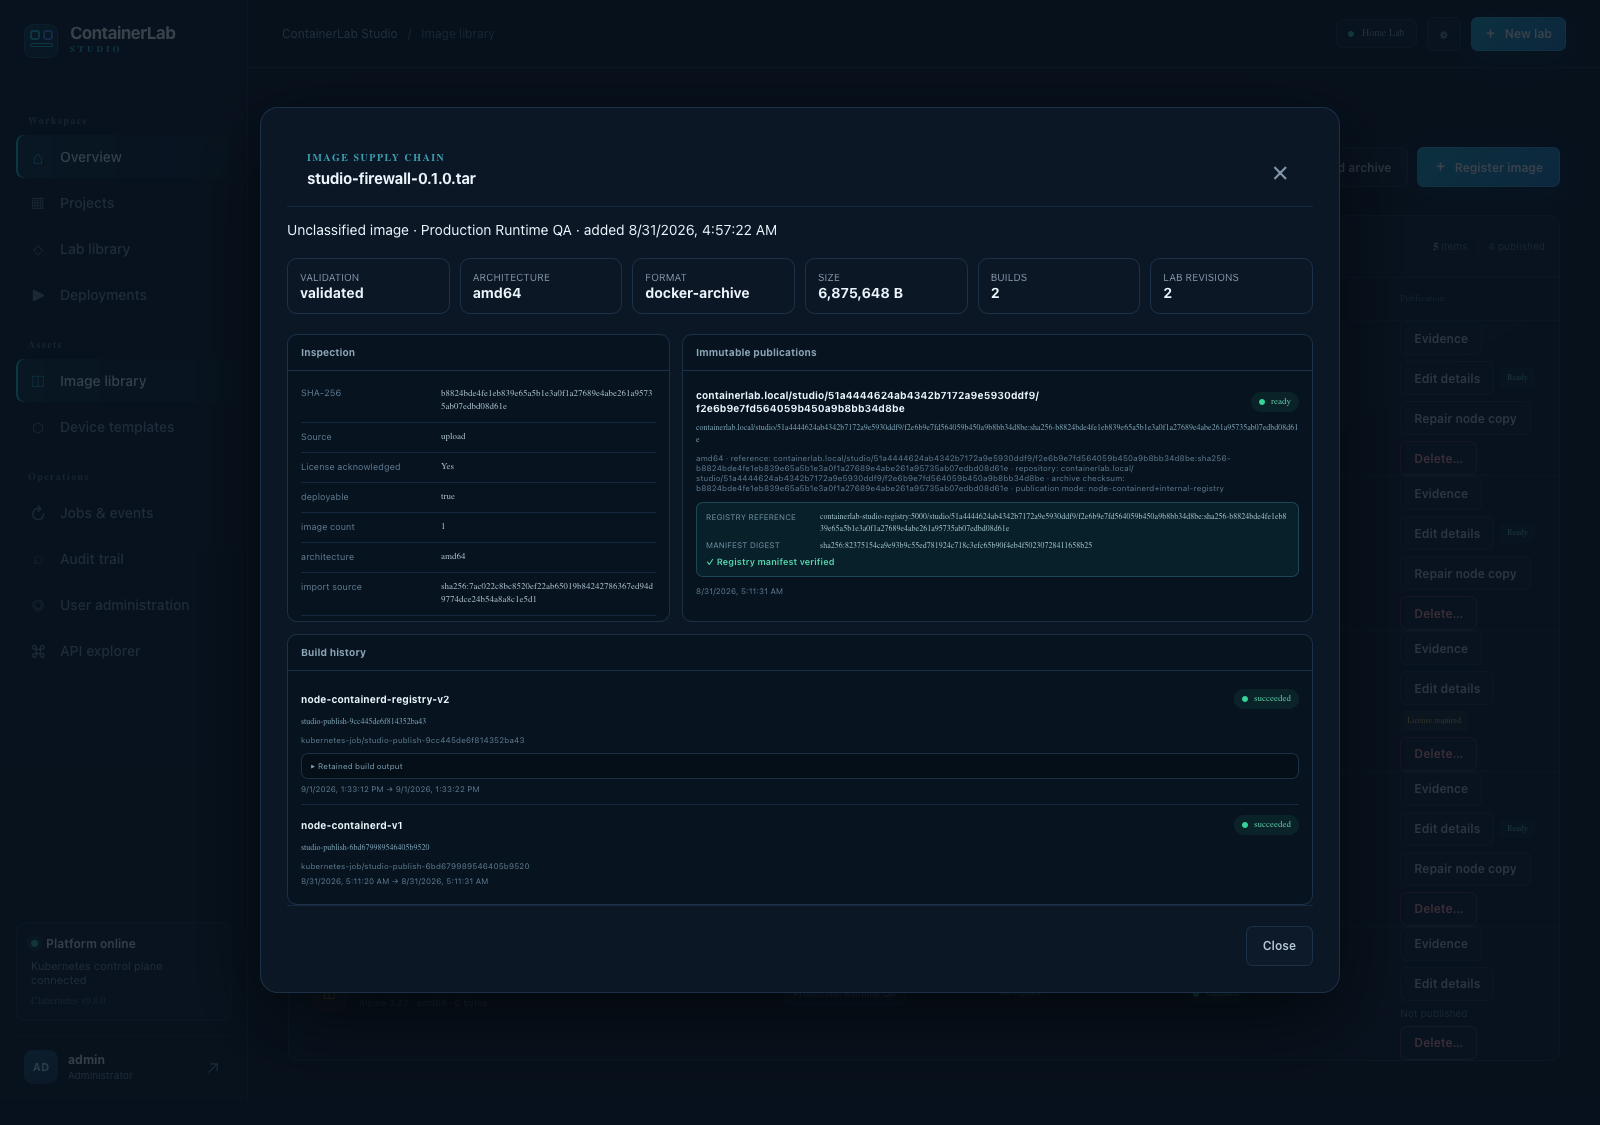
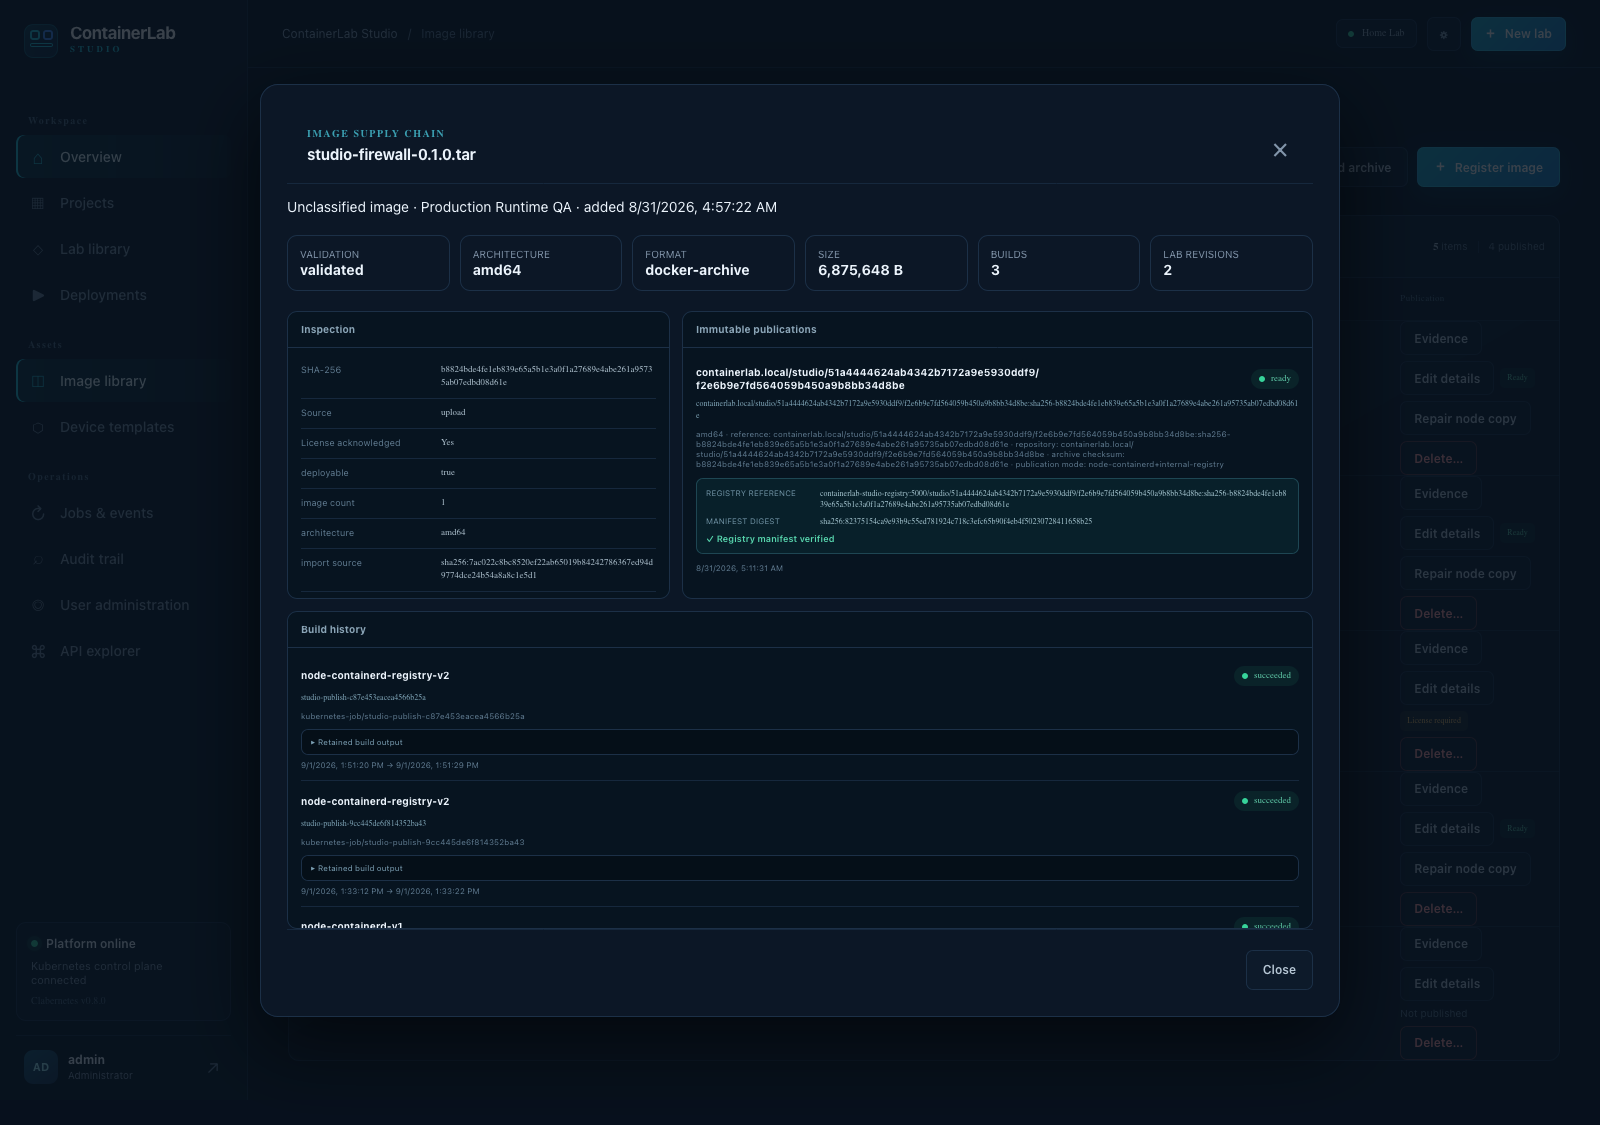
Document verified platform network isolation

diff --git a/IMPLEMENTATION_STATUS.md b/IMPLEMENTATION_STATUS.md
@@ -48,6 +48,7 @@
 - A 62-screen Firefox training capture catalog covering project and lab lifecycle, visual topology design and arrangement, verified backup/restore, image onboarding/stale cleanup/deletion/supply-chain evidence/catalog identity/protected registry access, deployment/device lifecycle, selected-node actions, guarded reset/removal, safe redeploy preview, runtime logs and network state, link controls, ping/traceroute diagnostics, packet capture, console, configuration history/compare/restore, templates, jobs, security, and API discovery.
 - Reproducible frontend supply chain with a frozen pnpm lockfile, explicitly approved native build dependency, patched Vite/Vitest/esbuild toolchain, zero known dependency advisories, executable topology utility tests, and no externally hosted font dependency at runtime.
 - Platform-administrator device-template management with structured no-YAML creation, immutable activation history, optimistic and idempotent version changes, bounded resources and interfaces, reviewed FRR/nftables configuration presets, read-only operator access, preserved lab-version pins, and audited metadata-only provenance.
+- Workload-scoped Kubernetes ingress policies for the web, console, PostgreSQL, Redis, and internal registry services, with exact target/source/port validation by a worker-only expiring health probe and live cross-namespace denial evidence.
 - Native topology notes and colored regions with canvas placement, move/resize, structured styling and layering, inspector editing, undo/redo, autosave, checksum participation, backup/restore, export, and deep-clone preservation without YAML.
 - Per-device CPU and memory governance from immutable template versions through Clabernetes resource policy to matching Kubernetes launcher requests/limits, with the pinned allocation visible in the runtime GUI.
 - EVE-style multi-device canvas selection with grouped movement, collision-free subgraph duplication, internal-link remapping, bulk deletion, undo/redo, keyboard controls, and preservation of template/image/configuration pins.
@@ -144,7 +145,7 @@ Automated tests: **154 backend and 7 frontend passed**. Django checks and migrat
 ## Known limitations
 
 - No `/dev/kvm`; all VM-backed vendor templates are unsupported on the current worker.
-- No dynamic StorageClass; this installation uses three application-owned static hostPath PVs on the single node and is not highly available.
-- Node-local publication is intentionally a single-node mode. Multi-node and highly available installations still require a trusted OCI registry so every worker can resolve the same immutable image.
+- No dynamic StorageClass; this installation uses four application-owned retained local PVs on the single node and is not highly available.
+- Uploaded images are mirrored into the internal OCI registry with verified manifest digests, but Clabernetes launcher pulls from that registry have not been verified across multiple workers; the current runtime reference remains the content-addressed node-local tag.
 - Clabernetes 0.8.0 emitted an auxiliary Alpine puller warning (`exit` executable missing), although launcher pulls, topology readiness, device creation, and traffic all succeeded.
 - Shared Containerlab `bridge` network objects are not exposed on this installation: the backend requires a pre-existing Linux bridge on the Kubernetes worker, while Clabernetes is intentionally namespace-isolated. Creating host networking from the application would break that isolation boundary; point-to-point topology links remain fully supported in the GUI.

diff --git a/docs/security.md b/docs/security.md
@@ -20,6 +20,8 @@ The single-node installation publishes validated Docker/OCI archives through a s
 
 Writing to the containerd socket is equivalent to node-runtime administration. Publication remains limited to administrator/editor roles and retains checksum re-verification, license acknowledgement, idempotency, and audit events. The chart deploys a namespace-local Distribution registry with a retained filesystem PV, internal ClusterIP, network-policy-restricted ingress, and worker health evidence. Each successful uploaded-image publication retains the selected node's content-addressed runtime tag, pushes the same imported content to the internal registry, and records the manifest only after the registry returns a SHA-256 digest. Configuring and verifying launcher pulls from that registry on every Kubernetes worker remains required before claiming multi-node distribution.
 
+Platform data-plane ingress is workload-scoped with Kubernetes NetworkPolicy. The TLS gateway is the only selected source for web and console services. PostgreSQL accepts only web, worker, scheduler, console, and migration pods; Redis accepts only the long-running application workloads; the OCI registry accepts the worker and labeled image-publication jobs. A worker probe validates every target selector, allowed source set, and TCP port before publishing the expiring dashboard health signal. Egress is not default-denied because Clabernetes reconciliation and image publication require the Kubernetes API and external registries; installations that add egress isolation must explicitly model those destinations and DNS.
+
 ## Upload quarantine lifecycle
 
 Incomplete image uploads receive a fixed 24-hour resume deadline. Every 15 minutes, a bounded Celery task locks at most 200 expired active or failed sessions, deletes only regular files whose resolved path remains under Studio's configured quarantine root, records bytes and removal outcome, and changes active sessions to `expired`. Replays skip sessions with an existing cleanup result, so duplicate scheduler delivery is harmless. System audit events contain filename, sizes, status, and removal result but never the internal path; browser/API upload projections likewise exclude `artifact_destination`. Files outside the quarantine root are never removed even if a corrupted database row points to them.

diff --git a/training/README.md b/training/README.md
@@ -80,6 +80,7 @@ Screenshots are generated from the deployed product with `scripts/capture-traini
 | `68-containerlab-interoperability.png` | Containerlab interoperability | Exports a saved visual graph and previews a guarded re-import with explicit active-template and immutable-image mapping. |
 | `69-kubernetes-oci-registry.png` | Persistent Kubernetes OCI registry | Shows the worker-verified internal Distribution registry, retained filesystem storage mode, and Ready state on the platform dashboard. |
 | `70-verified-image-registry-mirror.png` | Verified image registry mirror | Repairs a validated upload through the GUI and shows its successful v2 build, internal registry reference, independently addressable manifest digest, and verified state. |
+| `71-platform-network-isolation.png` | Verified platform network isolation | Shows five workload-scoped ingress policies verified by the worker after authorized service traffic succeeds and cross-namespace database, cache, and registry probes are denied. |
 
 ## No-YAML operating model
 
@@ -124,6 +125,7 @@ Screenshots are generated from the deployed product with `scripts/capture-traini
 38. Use the optional Interop workspace to export a saved visual graph or import an existing supported `.clab.yml`; Studio rejects unsafe fields, requires explicit mappings, omits untrusted external configuration paths, and leaves normal design and operation GUI-only.
 39. Confirm the namespace-local OCI registry is reachable and its persistent storage mode is healthy from the platform dashboard; this health evidence expires when worker probes stop.
 40. Publish or repair a validated uploaded image from the catalog; Studio retains the node-local runtime tag, mirrors the manifest and layers into the internal registry, verifies the returned digest, and shows the proof without requiring registry CLI access.
+41. Confirm the dashboard reports all platform ingress policies verified; web/console traffic is limited to the gateway, data services to named application workloads, and registry publication to the worker job boundary.
 
 Containerlab/Kubernetes YAML is an internal adapter concern. It may be inspected by platform administrators for troubleshooting, but it is not part of the normal user workflow.
 

diff --git a/README.md b/README.md
@@ -38,6 +38,6 @@ The labeled operator screenshot catalog and its read-only capture procedure are 
 
 ## Important limitations
 
-Advanced acceptance remains in progress. Multi-node image distribution and several advanced CRUD surfaces remain incomplete. VM-backed devices are blocked on this node because `/dev/kvm` is absent. Native self-service account security, browser consoles, packet capture, node-local image publication and repair, guarded topology/runtime removal, Save As and revision restore, durable per-device suspend/resume, project role management, resource quotas, encrypted startup and collected configuration versioning, BGP routing, and default-deny nftables firewall policy are implemented and live-tested on the single-node deployment.
+Advanced acceptance remains in progress. Uploaded images are mirrored into a persistent internal OCI registry, while multi-node launcher pulls remain unverified. VM-backed devices are blocked on this node because `/dev/kvm` is absent. Native self-service account security, browser consoles, packet capture, verified image publication/repair, workload-scoped platform ingress, guarded topology/runtime removal, Save As and revision restore, durable per-device suspend/resume, project role management, resource quotas, encrypted startup and collected configuration versioning, BGP routing, and default-deny nftables firewall policy are implemented and live-tested on the single-node deployment.
 
 The frontend build is reproducible from its frozen pnpm lockfile and currently reports zero known dependency vulnerabilities. The deployed interface is self-contained and does not require third-party font or asset hosts at runtime.
